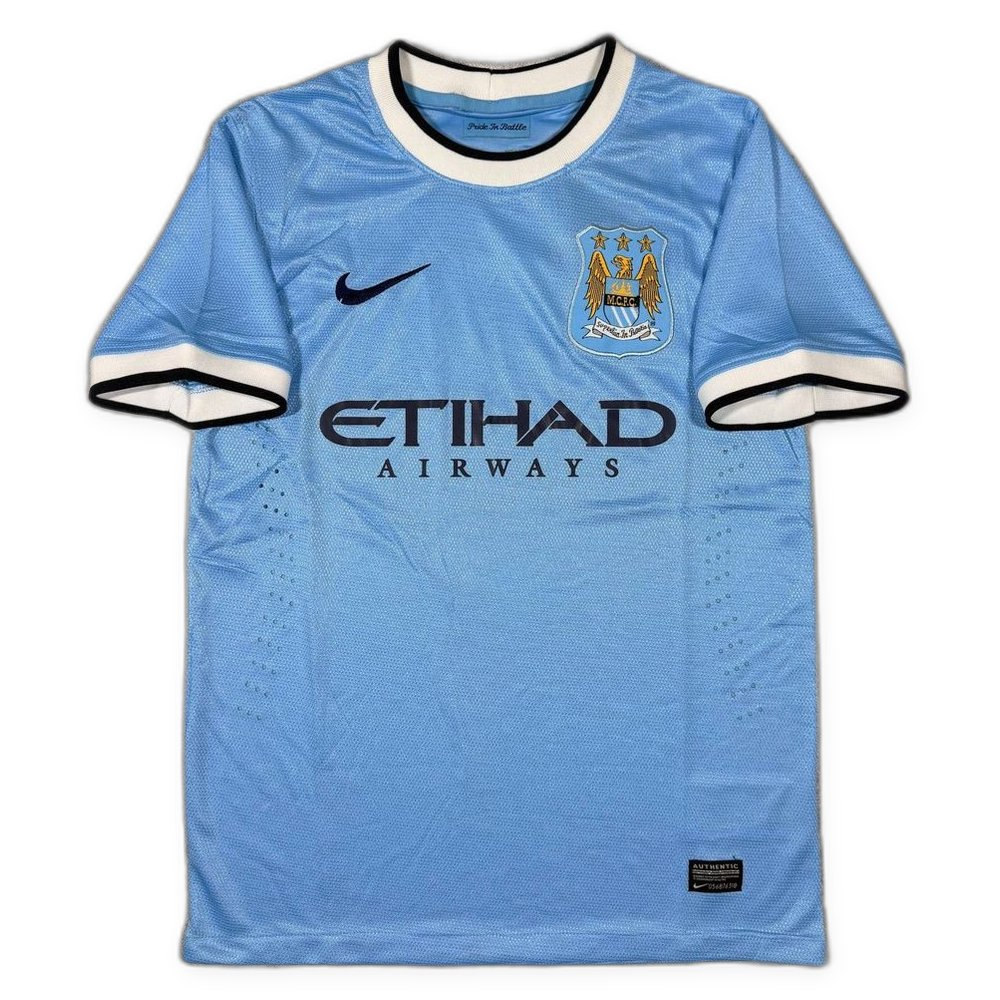
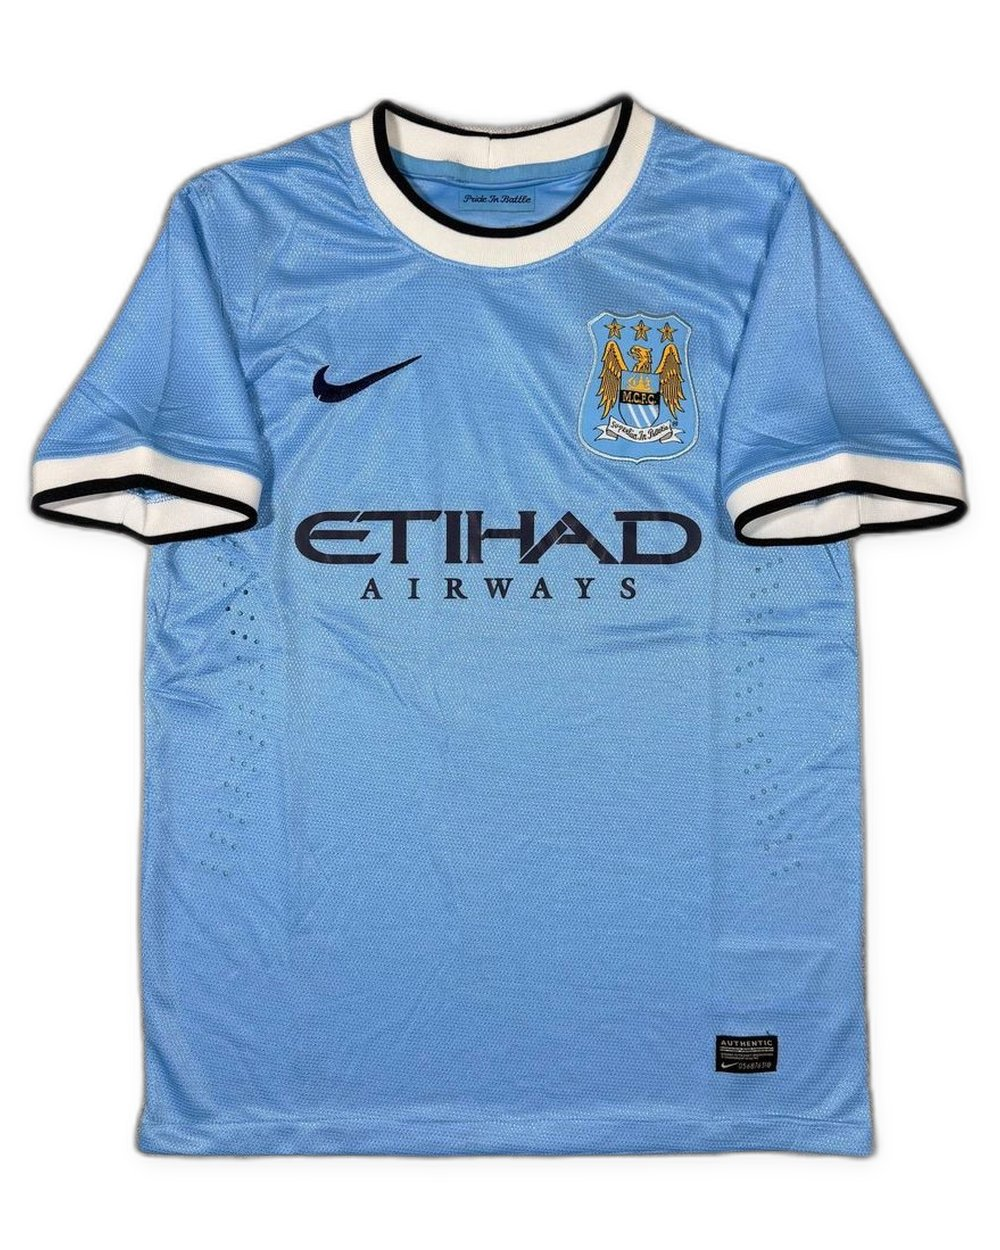
Джерси во всю карточку: формат 4:5, заполняют и ширину, и высоту
Claude-Session: https://claude.ai/code/session_01GpGon11cZZcHqQaXtoiXQY

diff --git a/index.html b/index.html
@@ -118,6 +118,7 @@ h2 small{font-size:13px;color:var(--mut);font-weight:600}
 .faq summary{list-style:none;cursor:pointer;padding:14px 0;font-weight:800;font-size:15px;display:flex;justify-content:space-between;gap:10px}.faq summary::-webkit-details-marker{display:none}
 .faq summary:after{content:'+';color:var(--acc);font-size:20px;line-height:1}.faq details[open] summary:after{content:'–'}
 .faq details div{padding:0 0 14px;color:#d4d4dc;font-size:14px;line-height:1.55}
+.ph.tall,.gal.tall{aspect-ratio:4/5}
 .hidden{display:none!important}
 .fit{background:#0f2a1c;border:1px solid #1f5a3a;border-radius:12px;padding:12px;margin-bottom:10px}.fit>b{display:block;margin-bottom:6px}.fitrow{display:flex;justify-content:space-between;font-size:14px;padding:3px 0}.fitrow span{color:var(--mut)}.fitrec{margin-top:8px;font-size:13.5px;color:#cfe9d8}
 .modal{position:fixed;inset:0;background:rgba(0,0,0,.85);z-index:60;display:none;align-items:center;justify-content:center;padding:16px}.modal.open{display:flex}.modal img{max-width:100%;max-height:85vh;border-radius:14px}.modal button{position:absolute;top:14px;right:14px;width:40px;height:40px;border-radius:50%;background:#222;font-size:20px}
@@ -176,7 +177,7 @@ function shirt(p){const [a,b,c]=p.shirt;return `<svg viewBox="0 0 200 200"><path
 const pic=p=>p.photos&&p.photos.length?`<img src="${p.photos[0]}" alt="${esc(p.title)}" loading="lazy">`:shirt(p);
 const gallery=p=>p.photos&&p.photos.length?`<div class="slides" id="sl">${p.photos.map(u=>`<img src="${u}" alt="">`).join('')}</div>${p.photos.length>1?`<div class="dots">${p.photos.map((_,i)=>`<i class="${i?'':'on'}"></i>`).join('')}</div>`:''}`:shirt(p);
 const badge=p=>`<span class="badge ${p.auth==='original'?'b-orig':'b-rep'}">${p.auth==='original'?'Оригинал':'Реплика'}</span>`+(p.stock&&p.stock!=='В наличии'?`<span class="b-ord">${esc(p.stock)}</span>`:'');
-const card=p=>`<button class="item" data-id="${p.id}"><div class="ph" style="--glow:${p.glow||'#333'}">${pic(p)}<span class="heart" data-fav="${p.id}">${isFav(p.id)?'❤':'🤍'}</span></div><div class="info"><b>${esc(p.title)}</b><div class="sz">Размер: ${esc(p.size)}${p.auth==='original'?' · <span style="color:var(--grn);font-weight:700">Оригинал</span>':''}${p.stock&&p.stock!=='В наличии'?' · '+esc(p.stock):''}</div>${fitDiff(p)===0?'<span class="mine">✅ твой размер</span>':''}<div class="pr">${priceTxt(p)}</div></div></button>`;
+const card=p=>`<button class="item" data-id="${p.id}"><div class="ph${p.cat==='jersey'?' tall':''}" style="--glow:${p.glow||'#333'}">${pic(p)}<span class="heart" data-fav="${p.id}">${isFav(p.id)?'❤':'🤍'}</span></div><div class="info"><b>${esc(p.title)}</b><div class="sz">Размер: ${esc(p.size)}${p.auth==='original'?' · <span style="color:var(--grn);font-weight:700">Оригинал</span>':''}${p.stock&&p.stock!=='В наличии'?' · '+esc(p.stock):''}</div>${fitDiff(p)===0?'<span class="mine">✅ твой размер</span>':''}<div class="pr">${priceTxt(p)}</div></div></button>`;
 const CHART={fan:[['S','160–170','50–60',50],['M','170–176','60–68',52],['L','176–182','68–78',54],['XL','182–188','78–88',56],['2XL','188–195','88–100',59]],
  pl:[['S','160–170','50–57',46],['M','170–176','57–65',48],['L','176–182','65–74',50],['XL','182–188','74–84',52],['2XL','188–195','84–94',54]]};
 function fit(p){if(!p.w)return'';const t=CHART[p.version==='Игровая'?'pl':'fan'];let best=t[0];for(const r of t)if(Math.abs(r[3]-p.w)<Math.abs(best[3]-p.w))best=r;
@@ -214,7 +215,7 @@ function catView(){const r=filtered();const nf=Object.values(st.f).reduce((a,v)=
 function prodView(){const p=P.find(x=>x.id===st.prod);if(!p){go('home');return}
  const rows=FILTERS[p.cat].filter(([k])=>p[k]&&k!=='stock').map(([k,t])=>`<div class="row"><span>${t}</span><b>${esc(p[k])}</b></div>`).join('');
  const msg=`Здравствуйте! Хочу заказать: ${p.title}, размер ${st.size||p.size}${p.byn?`, ${p.byn} BYN`:''}`;
- view.innerHTML=`<div class="gal" style="--glow:${p.glow||'#333'}">${gallery(p)}</div>
+ view.innerHTML=`<div class="gal${p.cat==='jersey'?' tall':''}" style="--glow:${p.glow||'#333'}">${gallery(p)}</div>
  ${p.sup?'<div class="note" style="margin:-8px 0 10px">📷 Фото поставщика · реальные фото этой джерси пришлём перед отправкой</div>':''}<div class="pt">${esc(p.title)}</div>
  <div class="tags"><span class="tag">${p.auth==='original'?'✅ Оригинал':'Реплика'}</span><span class="tag">${esc(p.stock)}</span>${p.sleeve==='Длинный'?'<span class="tag">Длинный рукав</span>':''}${p.version==='Игровая'?'<span class="tag">Игровая версия</span>':''}${p.state==='Б/у'?'<span class="tag">Б/у</span>':''}</div>
  <div class="pp">${p.byn?`<b>${rub(p).toLocaleString('ru')} ₽</b><span>${p.byn} BYN${p.ship==='warehouse'?'':' для РБ'}</span>`:'<b style="font-size:22px">Цена по запросу</b>'}</div>${p.kzt?`<div class="note">🇰🇿 Казахстан: ${p.kzt.toLocaleString('ru')} ₸</div>`:''}
